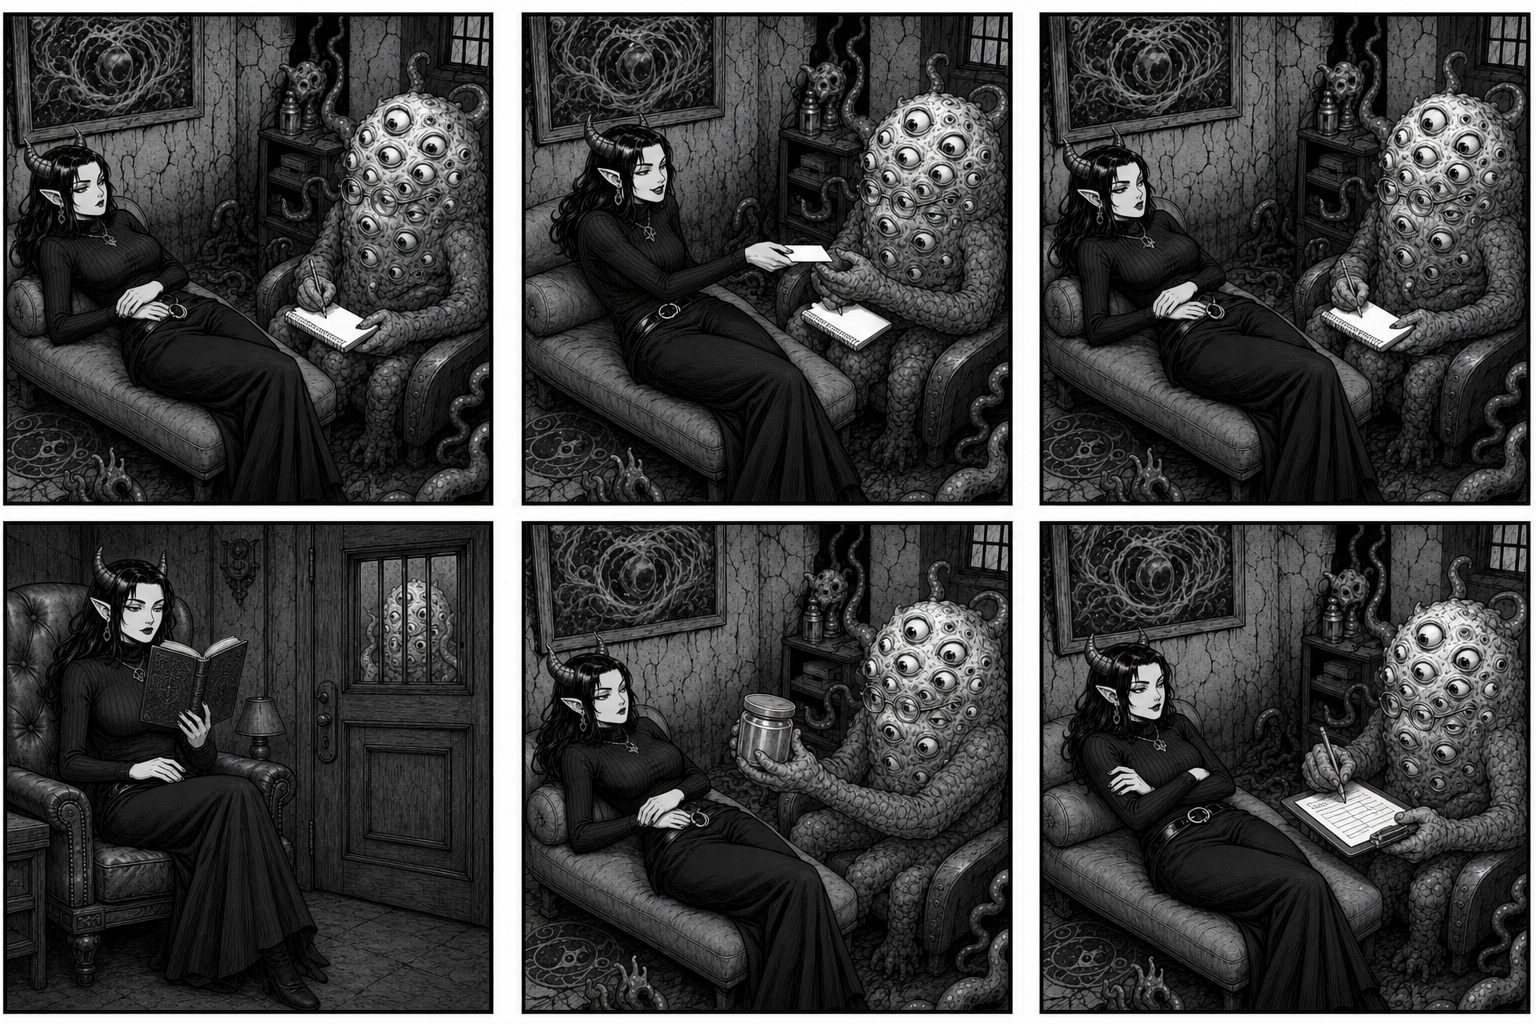
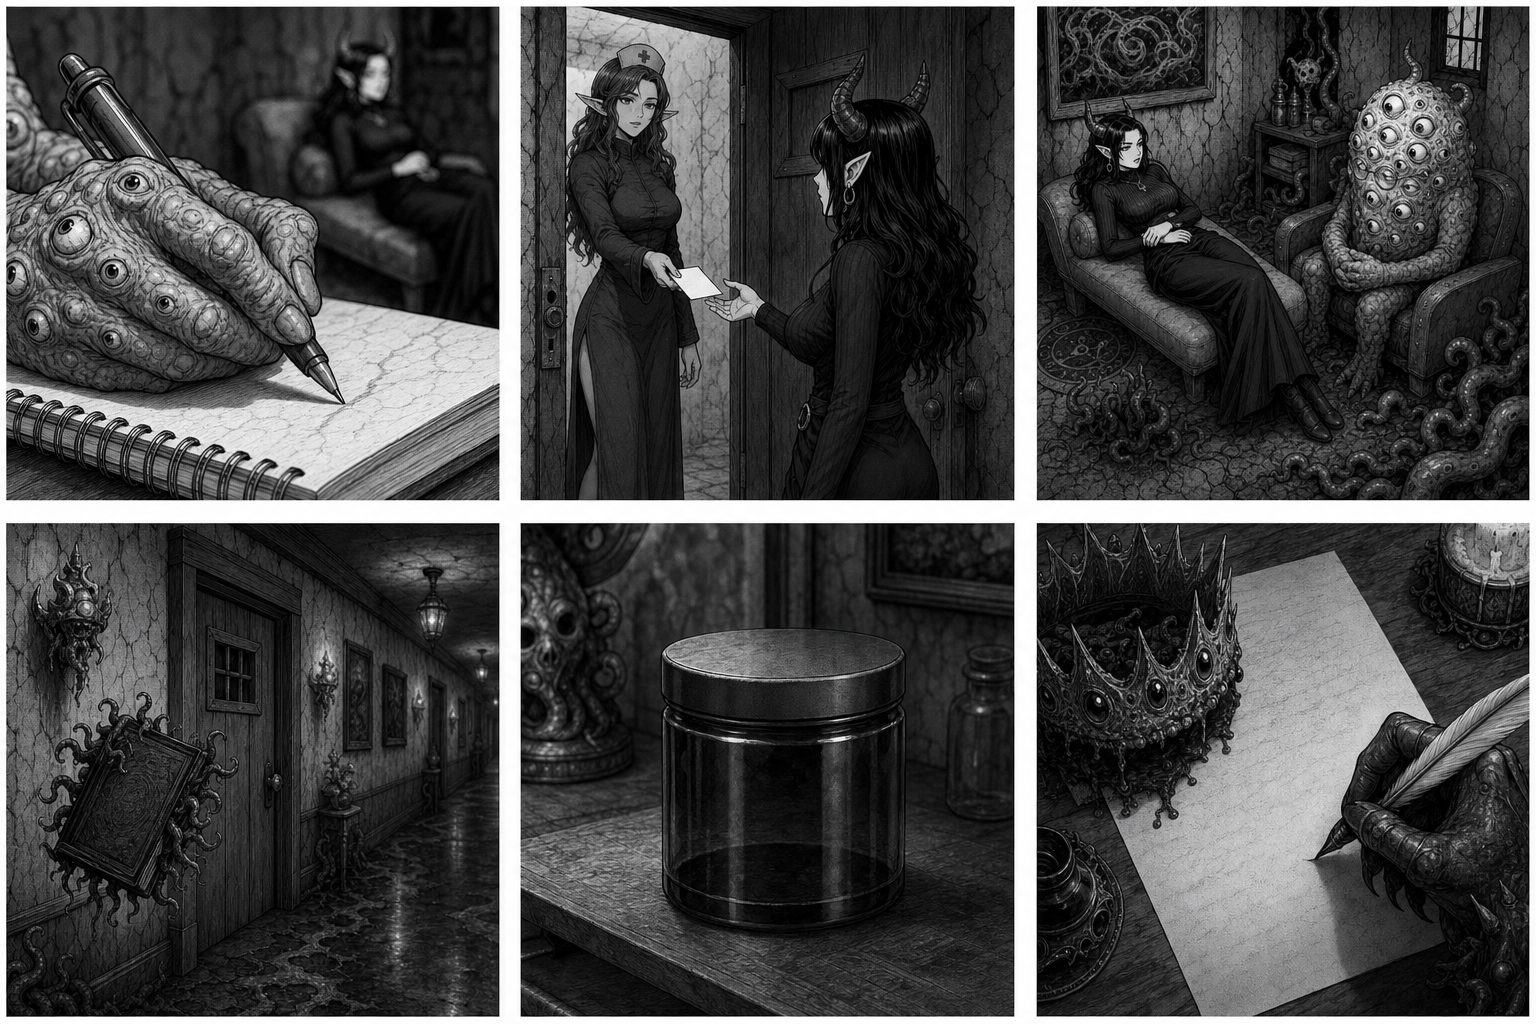
art: distinguish level 20 context beats

diff --git a/docs/art/lore-volume1-chapter1-asset-manifest.md b/docs/art/lore-volume1-chapter1-asset-manifest.md
@@ -41,6 +41,6 @@ Each context atlas was generated with its matching selected four-frame motion sh
 | `volume1-level5-context-safe.png` | `volume1-level5-safe.png` | `exec-1ad91c74-90ee-4dba-9dda-da98eea00e45.png` | Kevin applies mustache; supervisor presents handbook; matching blank badge; Kevin notices two smaller replacement goblins entering in uniform; unsigned-form accusation; Kevin rehearses his own fake accent. Rows mechanically reversed. | 1536x1024 | PASS with recorded comedy substitutions: six distinct square cells, clean gutters, stable Kevin/supervisor, text-free, no logo/watermark, safe adults. |
 | `volume1-level10-context-safe.png` | `volume1-level10-safe.png` | `exec-c896fcd7-96c1-4f76-88a8-9a4ef0a0a5cc.png` | Adult hero with absurd pole; sweating outer mimic; peeking inner mimic; both suppress laughter; both pose innocently; adult hero, rather than Kevin, sells the blank insurance scroll. Cells mechanically sequenced RTL. | 1536x1024 | PASS with recorded seller substitution: six distinct square cells, clean gutters, stable nested mimics/hero, text-free, no logo/watermark, safe adult. |
 | `volume1-level15-context-safe.png` | `volume1-level15-safe.png` | `exec-9c4bc8f3-be8b-4e0b-9a43-fde90d3aba96.png` | Necromancer distributes blank survey; skeleton returns incomplete form; one-to-five-star pictographic scale communicates the one-star rating; complaint desk rises; adult Brick enforces policy; bottomless suggestion box. Rows mechanically reversed. | 1536x1024 | PASS: six distinct square cells, clean gutters, stable necromancer/skeleton cast and adult Brick, pictographs only with no lettering, no logo/watermark, safe. |
-| `volume1-level20-context-safe.png` | `volume1-level20-safe.png` | `exec-5730c365-a6c7-477e-97eb-19f9b6133f44.png` | Fully clothed adult demon on tiny couch; demon passes the blank referral card on Mercy's behalf; many-eyed clinician takes notes; clinician completes the demon's intake rather than a separate cursed crown; closed unlabeled supervised-medication container; physical Book waits outside therapy. Rows mechanically reversed. | 1536x1024 | PASS with recorded subject substitutions: six distinct square cells, clean gutters, stable fully clothed demon/clinician, no lettering/logo/watermark, closed container, safe adults. |
+| `volume1-level20-context-safe.png` | `volume1-level20-safe.png` | `exec-fc9dd2ab-6238-4f1b-88d7-f57aa8836da0.png` | Wide fully clothed adult demon on tiny couch with listening clinician; medium doorway referral handoff from adult Mercy; extreme close-up of clinician's many-eyed writing hand with blurred demon; top-down cursed-crown intake; macro closed unlabeled supervised-medication container; hallway-wide physical Book outside the closed therapy door. Generated in RTL order; no story substitutions. | 1536x1024 | PASS review fix: six visually distinct square cells and camera treatments, clean gutters, stable safe adults, no duplicate couch/writing composition, no lettering/logo/watermark. |
 
 All six bundled PNGs were reopened at original resolution after final normalization and ordering. The final `magick identify DockBarHero/Lore/Resources/Images/*-context-safe.png` output reported `PNG 1536x1024` for every atlas.
